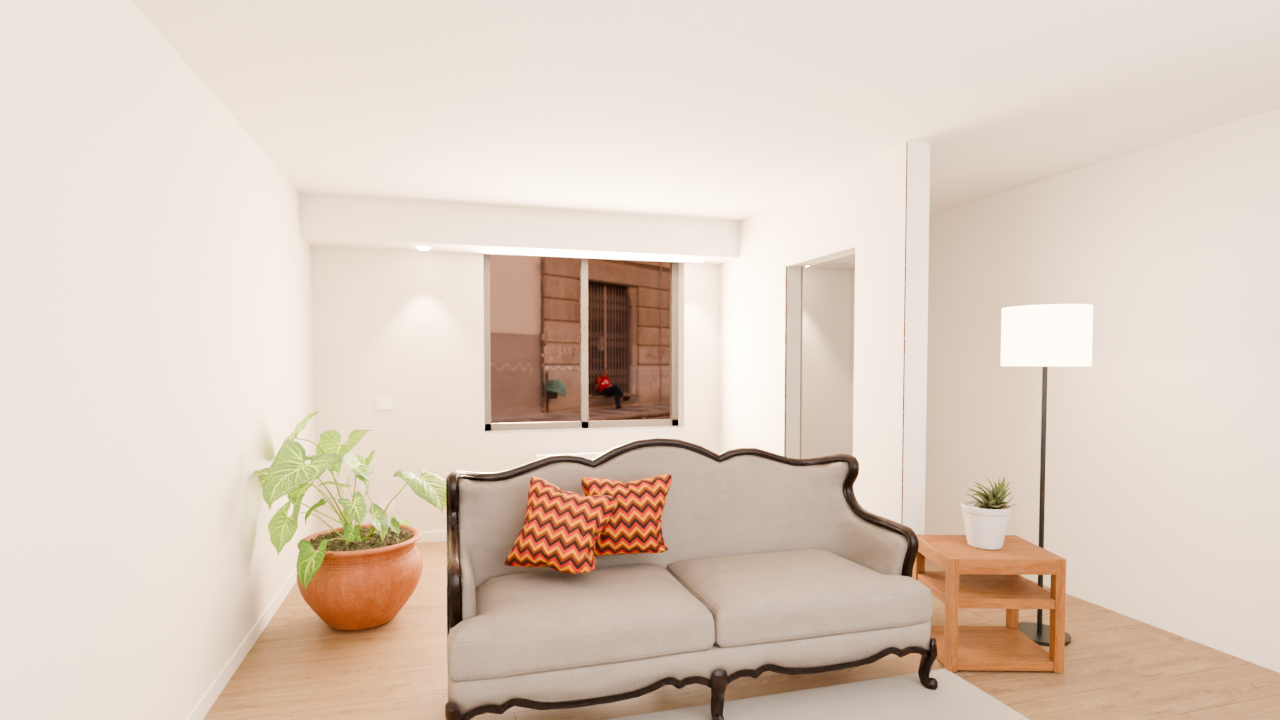
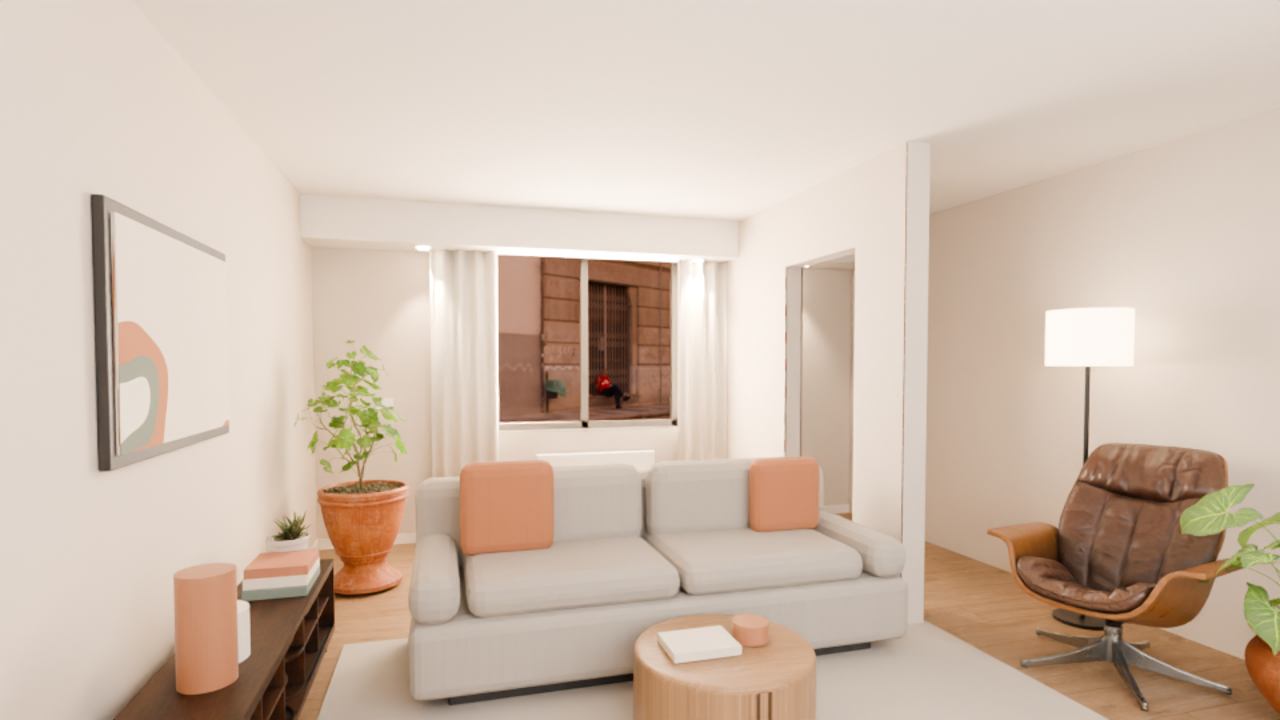
Hero chiaro (versione A), intestazione chiara, pulsanti arrotondati; stanza finale più piena
Claude-Session: https://claude.ai/code/session_01NCWZ2DxYtB1WeUMzqs8uxz

diff --git a/src/styles/global.css b/src/styles/global.css
@@ -26,6 +26,8 @@
   --paper: #e9e7e2;
   --ink: #292d30;
   --ink-2: #4a5055;
+  --line-chiara: #d3cec5;
+  --bronze-testo: #6e5d47; /* bronzo scuro per testo su fondo chiaro (5:1) */
   --brick: #a0704f;
   --todo-bg: #5a3d12;
   --todo-fg: #ffe3b8;
@@ -97,7 +99,7 @@ strong { font-weight: 700; color: var(--fg); }
   display: inline-flex; align-items: center; justify-content: center; gap: 10px;
   min-height: 52px; padding-inline: 24px;
   font: 700 1rem/1 var(--f-b); text-transform: uppercase; letter-spacing: 0.04em;
-  text-decoration: none; border: 2px solid transparent; cursor: pointer; border-radius: 0;
+  text-decoration: none; border: 2px solid transparent; cursor: pointer; border-radius: 999px;
   transition: background 0.2s steps(2), color 0.2s steps(2), border-color 0.2s steps(2);
 }
 .btn-p { background: var(--bronze); color: var(--ink); }

diff --git a/blender/ristrutturazione.py b/blender/ristrutturazione.py
@@ -18,7 +18,7 @@ W = int(arg('--w', '1280'))
 SAMPLES = int(arg('--samples', '64'))
 FLIST = arg('--frame-list', '')
 ASPECT = arg('--aspect', '16:9')
-STILE = arg('--stile', 'classico')   # arredo finale: classico | caldo | minimal | accento
+STILE = arg('--stile', 'mix')   # arredo finale: mix | classico | caldo | minimal | accento
 HERE = os.path.dirname(os.path.abspath(__file__))
 TEX = os.path.join(HERE, 'tex')
 random.seed(11)
@@ -213,7 +213,7 @@ TX = 3.35                             # tramezzo nuovo: x costante, da y=2.7 all
 TY0, TY1 = 2.7, RD
 DOOR_Y0, DOOR_Y1, DOOR_H = 3.15, 4.0, 2.1
 
-PAINT = {'classico': (0.84, 0.8, 0.73, 1), 'caldo': (0.58, 0.46, 0.34, 1), 'minimal': (0.9, 0.89, 0.86, 1), 'accento': (0.88, 0.85, 0.79, 1)}[STILE]
+PAINT = {'classico': (0.84, 0.8, 0.73, 1), 'caldo': (0.58, 0.46, 0.34, 1), 'minimal': (0.9, 0.89, 0.86, 1), 'accento': (0.88, 0.85, 0.79, 1), 'mix': (0.7, 0.64, 0.56, 1)}[STILE]
 PAINT_BACK = {'accento': (0.2, 0.27, 0.19, 1)}.get(STILE, PAINT)
 # materiale delle pareti esistenti: carta da parati -> intonaco rovinato -> intonaco grigio -> rasatura -> pittura
 WALL_LAYERS = [
@@ -510,14 +510,65 @@ else:
         'caldo':   dict(sofa=(0.3, 0.24, 0.17, 1), cusc=(0.42, 0.18, 0.09, 1), rug=(0.45, 0.4, 0.32, 1)),
         'minimal': dict(sofa=(0.32, 0.32, 0.31, 1), cusc=(0.6, 0.58, 0.54, 1), rug=(0.55, 0.53, 0.5, 1)),
         'accento': dict(sofa=(0.55, 0.5, 0.42, 1), cusc=(0.4, 0.15, 0.07, 1), rug=(0.42, 0.38, 0.32, 1)),
+        'mix':     dict(sofa=(0.42, 0.39, 0.34, 1), cusc=(0.42, 0.18, 0.09, 1), rug=(0.5, 0.46, 0.4, 1)),
     }[STILE]
     M_RUG = fabric_mat('tappeto', STILI['rug'], 0.25)
     fade_material(M_RUG, f_in=(P['p7'][0] + 20, P['p7'][0] + 28))
-    rug = box('tappeto', (1.95, 2.0, 0.008), (2.6, 1.9, 0.012), M_RUG, bevel=0.004)
+    rug = box('tappeto', (1.95, 2.15, 0.008), (3.0, 2.2, 0.012) if STILE == 'mix' else (2.6, 1.9, 0.012), M_RUG, bevel=0.004)
     key_hide(rug, visible_from=P['p7'][0] + 20)
     divano(1.95, 2.85, STILI['sofa'], STILI['cusc'], P['p7'][0] + 22)
-    importa('potted_plant_01', (0.45, 3.8, 0.0), rz=0.4, scala=1.15, appoggia=0.01, visible_from=P['p7'][0] + 26)
-    if STILE == 'caldo':
+    importa('potted_plant_01', (0.45, 3.8, 0.0) if STILE != 'mix' else (0.45, 4.2, 0.0), rz=0.4, scala=1.15, appoggia=0.01, visible_from=P['p7'][0] + 26)
+    if STILE == 'mix':
+        V = P['p7'][0] + 24
+        # poltrona anni '60 e lampada a destra, pianta grande in fondo a sinistra
+        importa('mid_century_lounge_chair', (3.9, 2.0, 0.0), rz=-1.25, scala=0.85, appoggia=0.01, visible_from=V)
+        importa('potted_plant_02', (4.2, 1.35, 0.0), rz=0.3, scala=1.1, appoggia=0.01, visible_from=P['p7'][0] + 26)
+        # madia bassa sulla parete sinistra, con oggetti sopra
+        importa('modern_wooden_cabinet', (0.25, 2.45, 0.0), rz=math.pi / 2, scala=0.65, appoggia=0.01, visible_from=V)
+        TOP = 0.68 * 0.65 + 0.01
+        M_CER = simple_mat('ceramica', (0.42, 0.2, 0.11, 1), 0.35); M_CER2 = simple_mat('ceramica_chiara', (0.8, 0.77, 0.7, 1), 0.3)
+        M_LIB = [simple_mat('libro_' + str(k), c, 0.7) for k, c in enumerate([(0.2, 0.25, 0.22, 1), (0.75, 0.7, 0.6, 1), (0.45, 0.2, 0.12, 1)])]
+        ogg = [cyl('vaso_alto', (0.25, 1.98, TOP + 0.13), 0.055, 0.26, (0, 0, 0), M_CER, verts=40),
+               cyl('vaso_basso', (0.22, 2.13, TOP + 0.06), 0.07, 0.12, (0, 0, 0), M_CER2, verts=40)]
+        for k in range(3):
+            ogg.append(box('libro', (0.27, 2.85, TOP + 0.02 + k * 0.04), (0.24, 0.32 - k * 0.03, 0.04), M_LIB[k], bevel=0.003))
+        for o in ogg: key_hide(o, visible_from=V)
+        importa('potted_plant_04', (0.25, 3.05, 0.0), scala=1.1, appoggia=TOP, visible_from=P['p7'][0] + 28)
+        # quadro astratto sopra la madia
+        M_TELA, nt = new_mat('tela'); nn, ll = nt.nodes, nt.links
+        tc = nn.new('ShaderNodeTexCoord'); no = nn.new('ShaderNodeTexNoise'); no.inputs['Scale'].default_value = 1.6; no.inputs['Detail'].default_value = 1.0
+        ll.new(tc.outputs['Generated'], no.inputs['Vector'])
+        cr = nn.new('ShaderNodeValToRGB'); r = cr.color_ramp; r.interpolation = 'CONSTANT'
+        r.elements[0].position = 0.0; r.elements[0].color = (0.78, 0.72, 0.62, 1)
+        r.elements[1].position = 0.44; r.elements[1].color = (0.45, 0.2, 0.1, 1)
+        e = r.elements.new(0.53); e.color = (0.2, 0.24, 0.2, 1)
+        e = r.elements.new(0.6); e.color = (0.62, 0.52, 0.38, 1)
+        ll.new(no.outputs['Fac'], cr.inputs['Fac']); ll.new(cr.outputs['Color'], nt.nodes['Principled BSDF'].inputs['Base Color'])
+        nt.nodes['Principled BSDF'].inputs['Roughness'].default_value = 0.9
+        M_CORN = simple_mat('cornice', (0.04, 0.04, 0.04, 1), 0.5)
+        q = [box('cornice', (0.02, 2.45, 1.5), (0.03, 1.1, 0.78), M_CORN, bevel=0.004), box('tela', (0.04, 2.45, 1.5), (0.012, 1.02, 0.7), M_TELA)]
+        for o in q: key_hide(o, visible_from=V)
+        # tavolino tondo in rovere con un libro e una ciotola
+        M_ROV = tex_mat('rovere', 'laminate_floor_02', 0.6, tint=(1.0, 0.92, 0.82, 1))
+        tv = [cyl('tavolino', (1.95, 1.98, 0.18), 0.34, 0.34, (0, 0, 0), M_ROV, verts=64),
+              box('libro_tav', (1.85, 1.98, 0.37), (0.26, 0.2, 0.035), M_LIB[1], bevel=0.003),
+              cyl('ciotola', (2.07, 2.0, 0.39), 0.07, 0.07, (0, 0, 0), M_CER, verts=40)]
+        md = tv[0].modifiers.new('bev', 'BEVEL'); md.width = 0.02; md.segments = 3
+        for o in tv: key_hide(o, visible_from=V)
+        # tende di lino ai lati della finestra
+        M_TENDA = fabric_mat('tenda', (0.82, 0.79, 0.72, 1), 0.25)
+        for x0, x1 in ((0.85, 1.35), (2.85, 3.3)):
+            N = 48; verts = []; faces = []
+            for k in range(N + 1):
+                x = x0 + (x1 - x0) * k / N; y = RD - 0.14 + 0.035 * math.sin(k / N * math.pi * 8)
+                verts += [(x, y, 0.02), (x, y, 2.48)]
+            for k in range(N): faces.append((2 * k, 2 * k + 2, 2 * k + 3, 2 * k + 1))
+            me = bpy.data.meshes.new('tenda'); me.from_pydata(verts, [], faces); me.update()
+            o = bpy.data.objects.new('tenda', me); scn.collection.objects.link(o); o.data.materials.append(M_TENDA)
+            for poly in me.polygons: poly.use_smooth = True
+            o.modifiers.new('sol', 'SOLIDIFY').thickness = 0.006
+            key_hide(o, visible_from=P['p7'][0] + 20)
+    elif STILE == 'caldo':
         importa('mid_century_lounge_chair', (3.9, 2.0, 0.0), rz=-1.25, scala=0.85, appoggia=0.01, visible_from=P['p7'][0] + 24)
     elif STILE == 'minimal':
         MPF = fabric_mat('pouf', (0.5, 0.48, 0.44, 1), 0.3); MTB = simple_mat('tavolino_bianco', (0.85, 0.84, 0.82, 1), 0.4)
@@ -607,7 +658,8 @@ else:
 scn.render.resolution_percentage = 100
 scn.view_settings.view_transform = 'AgX'; scn.view_settings.look = 'AgX - Medium High Contrast'
 scn.view_settings.exposure = 0.2
-for f, ex in [(0, 0.2), (P['p7'][0], 0.2), (P['p7'][0] + 26, 0.55), (FEND, 0.55)]:
+EXF = 0.55 if STILE == 'classico' else 0.4
+for f, ex in [(0, 0.2), (P['p7'][0], 0.2), (P['p7'][0] + 26, EXF), (FEND, EXF)]:
     scn.view_settings.exposure = ex; scn.view_settings.keyframe_insert('exposure', frame=f)
 scn.render.image_settings.file_format = 'PNG'; scn.render.image_settings.color_mode = 'RGB'
 os.makedirs(OUT, exist_ok=True)
